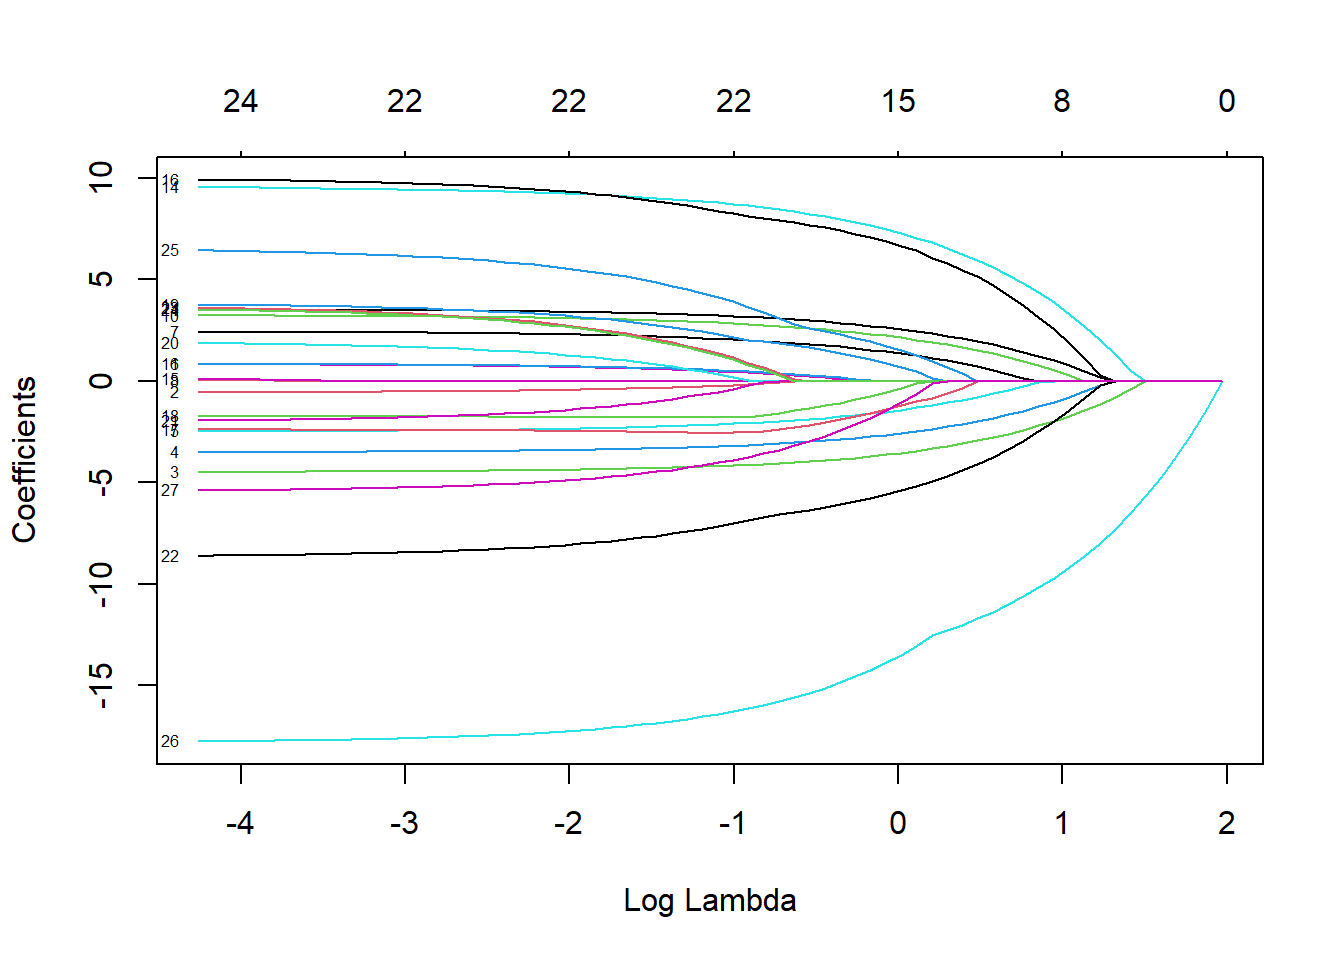
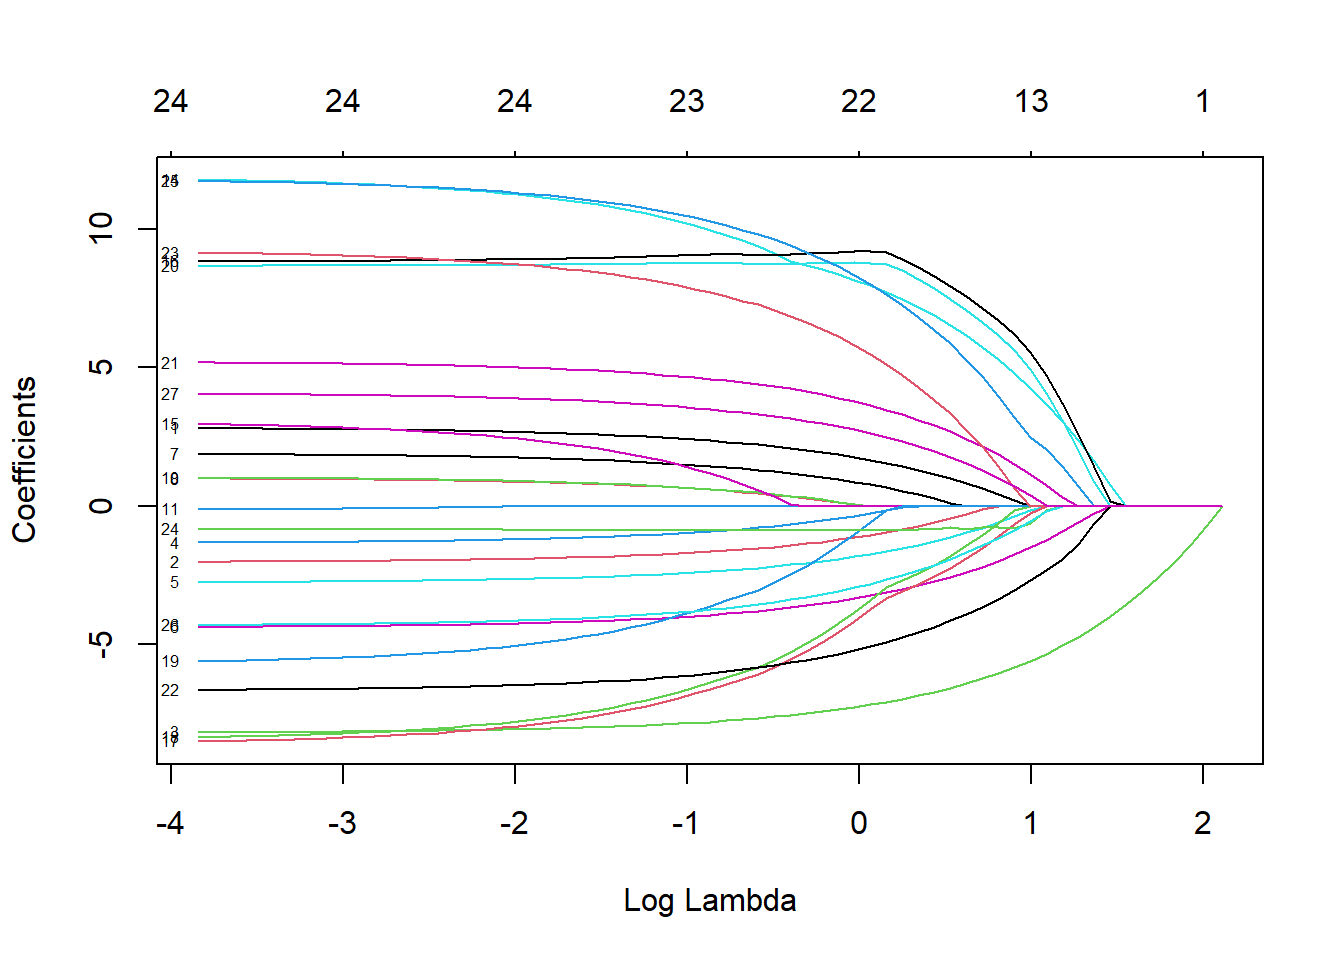
final final

diff --git a/docs/Final Project.html b/docs/Final Project.html
@@ -356,27 +356,27 @@ lm(formula = `Calories Burned` ~ Age + `Height (cm)` + `Weight (kg)` +
     data = fitness_test)
 
 Residuals:
-    Min      1Q  Median      3Q     Max 
--471.04 -218.84    4.94  213.49  467.01 
+   Min     1Q Median     3Q    Max 
+-499.0 -222.6    7.5  218.2  471.2 
 
 Coefficients:
                              Estimate Std. Error t value Pr(&gt;|t|)    
-(Intercept)                 5.792e+02  8.384e+01   6.908  6.2e-12 ***
-Age                        -1.348e-01  4.284e-01  -0.315   0.7530    
-`Height (cm)`              -7.498e-02  3.538e-01  -0.212   0.8322    
-`Weight (kg)`              -5.478e-01  2.559e-01  -2.141   0.0324 *  
-`Workout Duration (mins)`   1.390e-01  1.626e-01   0.855   0.3928    
-`Heart Rate (bpm)`          1.112e-02  1.800e-01   0.062   0.9507    
-`Steps Taken`              -1.457e-04  9.661e-04  -0.151   0.8801    
-`Sleep Hours`              -9.230e-02  3.021e+00  -0.031   0.9756    
-`Daily Calories Intake`     2.058e-03  7.233e-03   0.285   0.7760    
-`Resting Heart Rate (bpm)`  3.002e-01  4.460e-01   0.673   0.5010    
+(Intercept)                 4.253e+02  8.630e+01   4.929 8.82e-07 ***
+Age                         1.080e-01  4.325e-01   0.250  0.80278    
+`Height (cm)`               2.372e-01  3.592e-01   0.660  0.50904    
+`Weight (kg)`               5.437e-02  2.602e-01   0.209  0.83449    
+`Workout Duration (mins)`  -4.956e-02  1.638e-01  -0.302  0.76232    
+`Heart Rate (bpm)`          6.228e-02  1.814e-01   0.343  0.73141    
+`Steps Taken`               2.568e-03  9.617e-04   2.670  0.00764 ** 
+`Sleep Hours`              -1.843e+00  3.038e+00  -0.607  0.54405    
+`Daily Calories Intake`     1.110e-02  7.263e-03   1.528  0.12666    
+`Resting Heart Rate (bpm)`  5.049e-01  4.531e-01   1.114  0.26528    
 ---
 Signif. codes:  0 '***' 0.001 '**' 0.01 '*' 0.05 '.' 0.1 ' ' 1
 
-Residual standard error: 258.3 on 2490 degrees of freedom
-Multiple R-squared:  0.002327,  Adjusted R-squared:  -0.001279 
-F-statistic: 0.6453 on 9 and 2490 DF,  p-value: 0.7589</code></pre>
+Residual standard error: 260.5 on 2490 degrees of freedom
+Multiple R-squared:  0.004802,  Adjusted R-squared:  0.001205 
+F-statistic: 1.335 on 9 and 2490 DF,  p-value: 0.2132</code></pre>
 </div>
 </div>
 </section>
@@ -509,7 +509,7 @@ window.document.addEventListener("DOMContentLoaded", function (event) {
   }
     var localhostRegex = new RegExp(/^(?:http|https):\/\/localhost\:?[0-9]*\//);
     var mailtoRegex = new RegExp(/^mailto:/);
-      var filterRegex = new RegExp("https:\/\/mkichinose-4\.github\.io\/math-437-final\/");
+      var filterRegex = new RegExp('/' + window.location.host + '/');
     var isInternal = (href) => {
         return filterRegex.test(href) || localhostRegex.test(href) || mailtoRegex.test(href);
     }

diff --git a/docs/index.html b/docs/index.html
@@ -70,10 +70,8 @@ ul.task-list li input[type="checkbox"] {
 <link rel="stylesheet" href="styles.css">
 <meta property="og:title" content="Megan Ichinose – Analyzing Key Factors of Calorie Burn Efficiency in a Workout">
 <meta property="og:description" content="Data Scientist | Student">
-<meta property="og:image" content="https://mkichinose-4.github.io/math-437-final/image2.png">
+<meta property="og:image" content="image2.png">
 <meta property="og:site_name" content="Analyzing Key Factors of Calorie Burn Efficiency in a Workout">
-<meta property="og:image:height" content="516">
-<meta property="og:image:width" content="537">
 </head>
 
 <body class="nav-fixed fullcontent">
@@ -226,7 +224,7 @@ window.document.addEventListener("DOMContentLoaded", function (event) {
   }
     var localhostRegex = new RegExp(/^(?:http|https):\/\/localhost\:?[0-9]*\//);
     var mailtoRegex = new RegExp(/^mailto:/);
-      var filterRegex = new RegExp("https:\/\/mkichinose-4\.github\.io\/math-437-final\/");
+      var filterRegex = new RegExp('/' + window.location.host + '/');
     var isInternal = (href) => {
         return filterRegex.test(href) || localhostRegex.test(href) || mailtoRegex.test(href);
     }

diff --git a/docs/about.html b/docs/about.html
@@ -269,7 +269,7 @@ window.document.addEventListener("DOMContentLoaded", function (event) {
   }
     var localhostRegex = new RegExp(/^(?:http|https):\/\/localhost\:?[0-9]*\//);
     var mailtoRegex = new RegExp(/^mailto:/);
-      var filterRegex = new RegExp("https:\/\/mkichinose-4\.github\.io\/math-437-final\/");
+      var filterRegex = new RegExp('/' + window.location.host + '/');
     var isInternal = (href) => {
         return filterRegex.test(href) || localhostRegex.test(href) || mailtoRegex.test(href);
     }

diff --git a/docs/website/blog/first-post/index.html b/docs/website/blog/first-post/index.html
@@ -255,7 +255,7 @@ window.document.addEventListener("DOMContentLoaded", function (event) {
   }
     var localhostRegex = new RegExp(/^(?:http|https):\/\/localhost\:?[0-9]*\//);
     var mailtoRegex = new RegExp(/^mailto:/);
-      var filterRegex = new RegExp("https:\/\/mkichinose-4\.github\.io\/math-437-final\/");
+      var filterRegex = new RegExp('/' + window.location.host + '/');
     var isInternal = (href) => {
         return filterRegex.test(href) || localhostRegex.test(href) || mailtoRegex.test(href);
     }

diff --git a/docs/website/blog/second-post/index.html b/docs/website/blog/second-post/index.html
@@ -255,7 +255,7 @@ window.document.addEventListener("DOMContentLoaded", function (event) {
   }
     var localhostRegex = new RegExp(/^(?:http|https):\/\/localhost\:?[0-9]*\//);
     var mailtoRegex = new RegExp(/^mailto:/);
-      var filterRegex = new RegExp("https:\/\/mkichinose-4\.github\.io\/math-437-final\/");
+      var filterRegex = new RegExp('/' + window.location.host + '/');
     var isInternal = (href) => {
         return filterRegex.test(href) || localhostRegex.test(href) || mailtoRegex.test(href);
     }

diff --git a/docs/website/blog/third-post/index.html b/docs/website/blog/third-post/index.html
@@ -312,7 +312,7 @@ window.document.addEventListener("DOMContentLoaded", function (event) {
   }
     var localhostRegex = new RegExp(/^(?:http|https):\/\/localhost\:?[0-9]*\//);
     var mailtoRegex = new RegExp(/^mailto:/);
-      var filterRegex = new RegExp("https:\/\/mkichinose-4\.github\.io\/math-437-final\/");
+      var filterRegex = new RegExp('/' + window.location.host + '/');
     var isInternal = (href) => {
         return filterRegex.test(href) || localhostRegex.test(href) || mailtoRegex.test(href);
     }

diff --git a/docs/website/index.html b/docs/website/index.html
@@ -238,7 +238,7 @@ window.document.addEventListener("DOMContentLoaded", function (event) {
   }
     var localhostRegex = new RegExp(/^(?:http|https):\/\/localhost\:?[0-9]*\//);
     var mailtoRegex = new RegExp(/^mailto:/);
-      var filterRegex = new RegExp("https:\/\/mkichinose-4\.github\.io\/math-437-final\/");
+      var filterRegex = new RegExp('/' + window.location.host + '/');
     var isInternal = (href) => {
         return filterRegex.test(href) || localhostRegex.test(href) || mailtoRegex.test(href);
     }

diff --git a/docs/website/projects/index.html b/docs/website/projects/index.html
@@ -397,7 +397,7 @@ window.document.addEventListener("DOMContentLoaded", function (event) {
   }
     var localhostRegex = new RegExp(/^(?:http|https):\/\/localhost\:?[0-9]*\//);
     var mailtoRegex = new RegExp(/^mailto:/);
-      var filterRegex = new RegExp("https:\/\/mkichinose-4\.github\.io\/math-437-final\/");
+      var filterRegex = new RegExp('/' + window.location.host + '/');
     var isInternal = (href) => {
         return filterRegex.test(href) || localhostRegex.test(href) || mailtoRegex.test(href);
     }
